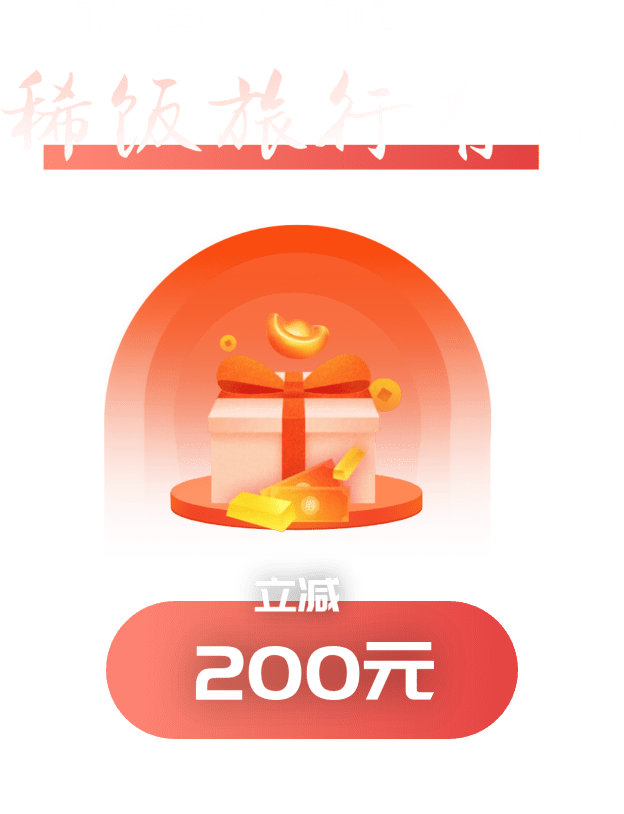
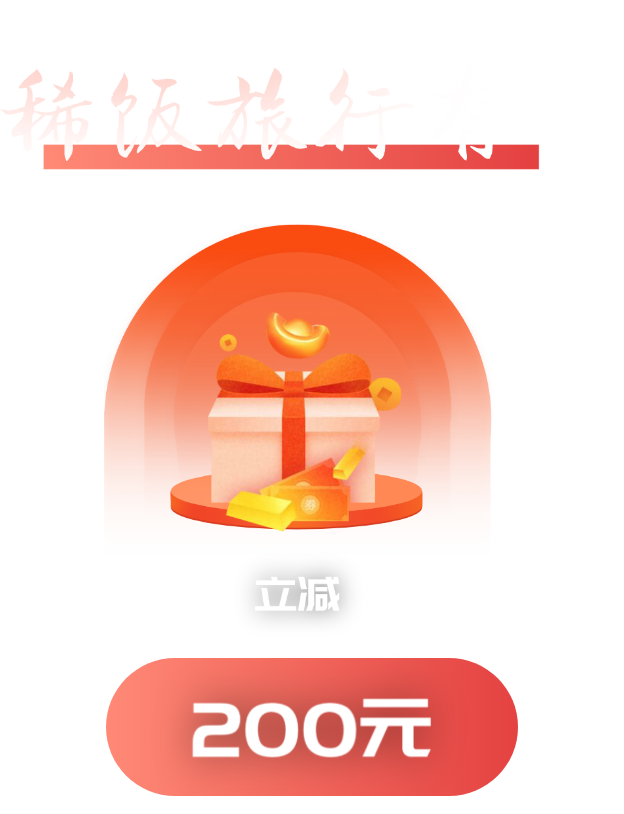
修改问题

diff --git a/pages/invite_friend/share_poster.vue b/pages/invite_friend/share_poster.vue
@@ -60,7 +60,12 @@ export default {
       width: 100%;
       padding-top: 150px;
       img{
-        width: 614px;
+        width: 624px;
+        position: absolute;
+        height: 814px;
+        top: 50%;
+        left: 50%;
+        transform: translate(-50%, -50%);
       }
     }
     .btn-words{

diff --git a/pages/activity/pull_new/index.vue b/pages/activity/pull_new/index.vue
@@ -89,6 +89,9 @@
     components: {
       areaCodeDefault
     },
+    head: {
+      title: '新人立减'
+    },
     data() {
       return {
         RECEIVE_TYPE,
